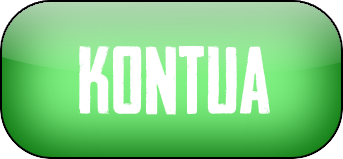
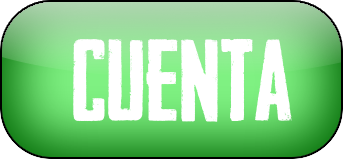
Pasahitzak enkriptatuak, jokoa internazionalizatuta

Changed region(s): [[0.2041, 0.2264, 0.8746, 0.7799]]

diff --git a/core/src/com/endlessrunner/Pantallas/menus/AjustesScreen.java b/core/src/com/endlessrunner/Pantallas/menus/AjustesScreen.java
@@ -36,6 +36,8 @@ public class AjustesScreen extends BaseScreen {
     private ImageButton per1,per2;
     private ImageButton atras;
 
+    private Boolean aventurero;
+
     public AjustesScreen(final EndlessRunner jokoa) {
         super(jokoa);
 
@@ -47,7 +49,6 @@ public class AjustesScreen extends BaseScreen {
         CargarPersonajes();
 
         String rutaAtras,rutaIdiomaEuskera=".png",rutaIdiomaGaztelera=".png",rutaIdiomaIngelesa=".png";
-
 
         if(Ajustes.Idioma.equals("EUS")){
             rutaIdiomaEuskera="_aukeratuta.png";
@@ -79,40 +80,45 @@ public class AjustesScreen extends BaseScreen {
 
 
         if(Ajustes.Personaje.equals("aventurero")){
-            per1= new ImageButton(new TextureRegionDrawable(new TextureRegion(new Texture(Gdx.files.internal("input/personajes/personaje1_aukeratuta.png")))));
-            per2= new ImageButton(new TextureRegionDrawable(new TextureRegion(new Texture(Gdx.files.internal("input/personajes/personaje2.png")))));
+            aventurero = true;
+            per1= new ImageButton(new TextureRegionDrawable(new TextureRegion(new Texture(Gdx.files.internal("input/" + Ajustes.Ruta + "/abenturazale_aukeratuta.png")))));
+            per2= new ImageButton(new TextureRegionDrawable(new TextureRegion(new Texture(Gdx.files.internal("input/" + Ajustes.Ruta + "/ninja.png")))));
         }else{
-            per1= new ImageButton(new TextureRegionDrawable(new TextureRegion(new Texture(Gdx.files.internal("input/personajes/personaje1.png")))));
-            per2= new ImageButton(new TextureRegionDrawable(new TextureRegion(new Texture(Gdx.files.internal("input/personajes/personaje2_aukeratuta.png")))));
+            aventurero = false;
+            per1= new ImageButton(new TextureRegionDrawable(new TextureRegion(new Texture(Gdx.files.internal("input/" + Ajustes.Ruta + "/abenturazale.png")))));
+            per2= new ImageButton(new TextureRegionDrawable(new TextureRegion(new Texture(Gdx.files.internal("input/" + Ajustes.Ruta + "/ninja_aukeratuta.png")))));
         }
 
         per1.addCaptureListener(new ChangeListener() {
             @Override
             public void changed(ChangeEvent event, Actor actor) {
+                aventurero = true;
                 Ajustes.Personaje="aventurero";IndiceTextura=0;
-                per1.getStyle().imageUp=new TextureRegionDrawable(new TextureRegion(new Texture(Gdx.files.internal("input/personajes/personaje1_aukeratuta.png"))));
-                per2.getStyle().imageUp=new TextureRegionDrawable(new TextureRegion(new Texture(Gdx.files.internal("input/personajes/personaje2.png"))));
+                per1.getStyle().imageUp=new TextureRegionDrawable(new TextureRegion(new Texture(Gdx.files.internal("input/" + Ajustes.Ruta + "/abenturazale_aukeratuta.png"))));
+                per2.getStyle().imageUp=new TextureRegionDrawable(new TextureRegion(new Texture(Gdx.files.internal("input/" + Ajustes.Ruta + "/ninja.png"))));
             }
         });
 
         per2.addCaptureListener(new ChangeListener() {
             @Override
             public void changed(ChangeEvent event, Actor actor) {
+                aventurero = false;
                 Ajustes.Personaje="ninja";IndiceTextura=0;
-                per1.getStyle().imageUp=new TextureRegionDrawable(new TextureRegion(new Texture(Gdx.files.internal("input/personajes/personaje1.png"))));
-                per2.getStyle().imageUp=new TextureRegionDrawable(new TextureRegion(new Texture(Gdx.files.internal("input/personajes/personaje2_aukeratuta.png"))));
+                per1.getStyle().imageUp=new TextureRegionDrawable(new TextureRegion(new Texture(Gdx.files.internal("input/" + Ajustes.Ruta + "/abenturazale.png"))));
+                per2.getStyle().imageUp=new TextureRegionDrawable(new TextureRegion(new Texture(Gdx.files.internal("input/" + Ajustes.Ruta + "/ninja_aukeratuta.png"))));
             }
         });
-
 
         idiomaEuskera.addCaptureListener(new ChangeListener() {
             @Override
             public void changed(ChangeEvent event, Actor actor) {
                 Ajustes.Idioma="EUS";
+                Ajustes.Ruta="euskera";
                 idiomaEuskera.getStyle().imageUp=new TextureRegionDrawable(new TextureRegion(new Texture(Gdx.files.internal("input/idiomas/eus_aukeratuta.png"))));
                 idiomaGaztelera.getStyle().imageUp=new TextureRegionDrawable(new TextureRegion(new Texture(Gdx.files.internal("input/idiomas/es.png"))));
                 idiomaIngles.getStyle().imageUp=new TextureRegionDrawable(new TextureRegion(new Texture(Gdx.files.internal("input/idiomas/en.png"))));
                 atras.getStyle().imageUp=new TextureRegionDrawable(new TextureRegion(new Texture(Gdx.files.internal("input/euskera/atzera.png"))));
+                updateProtag();
 
             }
         });
@@ -121,11 +127,12 @@ public class AjustesScreen extends BaseScreen {
             @Override
             public void changed(ChangeEvent event, Actor actor) {
                 Ajustes.Idioma="ES";
+                Ajustes.Ruta="gaztelera";
                 idiomaEuskera.getStyle().imageUp=new TextureRegionDrawable(new TextureRegion(new Texture(Gdx.files.internal("input/idiomas/eus.png"))));
                 idiomaGaztelera.getStyle().imageUp=new TextureRegionDrawable(new TextureRegion(new Texture(Gdx.files.internal("input/idiomas/es_aukeratuta.png"))));
                 idiomaIngles.getStyle().imageUp=new TextureRegionDrawable(new TextureRegion(new Texture(Gdx.files.internal("input/idiomas/en.png"))));
                 atras.getStyle().imageUp=new TextureRegionDrawable(new TextureRegion(new Texture(Gdx.files.internal("input/gaztelera/atzera.png"))));
-
+                updateProtag();
             }
         });
 
@@ -133,10 +140,12 @@ public class AjustesScreen extends BaseScreen {
             @Override
             public void changed(ChangeEvent event, Actor actor) {
                 Ajustes.Idioma="EN";
+                Ajustes.Ruta="ingelesa";
                 idiomaEuskera.getStyle().imageUp=new TextureRegionDrawable(new TextureRegion(new Texture(Gdx.files.internal("input/idiomas/eus.png"))));
                 idiomaGaztelera.getStyle().imageUp=new TextureRegionDrawable(new TextureRegion(new Texture(Gdx.files.internal("input/idiomas/es.png"))));
                 idiomaIngles.getStyle().imageUp=new TextureRegionDrawable(new TextureRegion(new Texture(Gdx.files.internal("input/idiomas/en_aukeratuta.png"))));
                 atras.getStyle().imageUp=new TextureRegionDrawable(new TextureRegion(new Texture(Gdx.files.internal("input/ingelesa/atzera.png"))));
+                updateProtag();
             }
         });
 
@@ -221,6 +230,16 @@ public class AjustesScreen extends BaseScreen {
 
     }
 
+    private void updateProtag(){
+        if (aventurero) {
+            per1.getStyle().imageUp = new TextureRegionDrawable(new TextureRegion(new Texture(Gdx.files.internal("input/" + Ajustes.Ruta + "/abenturazale_aukeratuta.png"))));
+            per2.getStyle().imageUp = new TextureRegionDrawable(new TextureRegion(new Texture(Gdx.files.internal("input/" + Ajustes.Ruta + "/ninja.png"))));
+        }else{
+            per1.getStyle().imageUp=new TextureRegionDrawable(new TextureRegion(new Texture(Gdx.files.internal("input/" + Ajustes.Ruta + "/abenturazale.png"))));
+            per2.getStyle().imageUp=new TextureRegionDrawable(new TextureRegion(new Texture(Gdx.files.internal("input/" + Ajustes.Ruta + "/ninja_aukeratuta.png"))));
+        }
+    }
+
     @Override
     public void show() {
         Gdx.input.setInputProcessor(stage);
@@ -258,9 +277,9 @@ public class AjustesScreen extends BaseScreen {
 
         if(Ajustes.Personaje.equals("aventurero")){
             jokoa.batch.draw(per1TextureMov[IndiceTextura],100, 80, 80 , 80 );
-            jokoa.batch.draw(per2Texture,270, 80, 80 , 80 );
+            jokoa.batch.draw(per2Texture,290, 80, 52 , 98 );
         }else{
-            jokoa.batch.draw(per1Texture,100, 80, 80 , 80 );
+            jokoa.batch.draw(per1Texture,100, 80, 64 , 98 );
             jokoa.batch.draw(per2TextureMov[IndiceTextura],270, 80, 80 , 80 );
         }
 

diff --git a/core/src/com/endlessrunner/Pantallas/menus/CreditosScreen.java b/core/src/com/endlessrunner/Pantallas/menus/CreditosScreen.java
@@ -11,6 +11,7 @@ import com.badlogic.gdx.scenes.scene2d.utils.ChangeListener;
 import com.badlogic.gdx.utils.viewport.FitViewport;
 import com.endlessrunner.EndlessRunner;
 import com.endlessrunner.Pantallas.partida_basica.BaseScreen;
+import com.endlessrunner.ayuda.Ajustes;
 
 /**
  * Created by Jongui on 27/03/2018.
@@ -33,14 +34,31 @@ public class CreditosScreen extends BaseScreen{
 
         skin = new Skin(Gdx.files.internal("skin/uiskin.json"));
 
-        back = new TextButton("Atzera", skin);
+        if (Ajustes.Idioma.equals("ES")) {
+            back = new TextButton("Atras", skin);
+            credits = new Label("EndlessRunner\n" +
+                    "Alumnos de la asignatura Softwarea Garatzeko Tresna Aurreratuak (SGTA) 2018:\n" +
+                    "Jon Guillo, Aritz Olea y Ander Lopez.\n\n" +
 
-        credits = new Label("EndlessRunner\n" +
-                "Softwarea Garatzeko Tresna Aurreratuak (SGTA) 2018 irakasgaiko ikasleak:\n" +
-                "Jon Guillo, Aritz Olea eta Ander Lopez.\n\n" +
+                    "Musica: \"Hot Pursuit\" (incompetech.com)\n" +
+                    "Sonidos: freesound.org", skin);
+        }else if (Ajustes.Idioma.equals("EN")) {
+            back = new TextButton("Back", skin);
+            credits = new Label("EndlessRunner\n" +
+                    "Students from subject Softwarea Garatzeko Tresna Aurreratuak (SGTA) 2018:\n" +
+                    "Jon Guillo, Aritz Olea and Ander Lopez.\n\n" +
 
-                "Musika: \"Hot Pursuit\" (incompetech.com)\n" +
-                "Soinuak: freesound.org", skin);
+                    "Music: \"Hot Pursuit\" (incompetech.com)\n" +
+                    "Sounds: freesound.org", skin);
+        }else {
+            back = new TextButton("Atzera", skin);
+            credits = new Label("EndlessRunner\n" +
+                    "Softwarea Garatzeko Tresna Aurreratuak (SGTA) 2018 irakasgaiko ikasleak:\n" +
+                    "Jon Guillo, Aritz Olea eta Ander Lopez.\n\n" +
+
+                    "Musika: \"Hot Pursuit\" (incompetech.com)\n" +
+                    "Soinuak: freesound.org", skin);
+        }
 
         back.addCaptureListener(new ChangeListener() {
             @Override
@@ -60,6 +78,31 @@ public class CreditosScreen extends BaseScreen{
     @Override
     public void show() {
         Gdx.input.setInputProcessor(stage);
+        if (Ajustes.Idioma.equals("ES")) {
+            back.setText("Atras");
+            credits.setText("EndlessRunner\n" +
+                    "Alumnos de la asignatura Softwarea Garatzeko Tresna Aurreratuak (SGTA) 2018:\n" +
+                    "Jon Guillo, Aritz Olea y Ander Lopez.\n\n" +
+
+                    "Musica: \"Hot Pursuit\" (incompetech.com)\n" +
+                    "Sonidos: freesound.org");
+        }else if (Ajustes.Idioma.equals("EN")) {
+            back.setText("Back");
+            credits.setText("EndlessRunner\n" +
+                    "Students from subject Softwarea Garatzeko Tresna Aurreratuak (SGTA) 2018:\n" +
+                    "Jon Guillo, Aritz Olea and Ander Lopez.\n\n" +
+
+                    "Music: \"Hot Pursuit\" (incompetech.com)\n" +
+                    "Sounds: freesound.org");
+        }else{
+            back.setText("Atzera");
+            credits.setText("EndlessRunner\n" +
+                    "Softwarea Garatzeko Tresna Aurreratuak (SGTA) 2018 irakasgaiko ikasleak:\n" +
+                    "Jon Guillo, Aritz Olea eta Ander Lopez.\n\n" +
+
+                    "Musika: \"Hot Pursuit\" (incompetech.com)\n" +
+                    "Soinuak: freesound.org");
+        }
     }
 
     @Override

diff --git a/core/src/com/endlessrunner/Pantallas/menus/UserScreen.java b/core/src/com/endlessrunner/Pantallas/menus/UserScreen.java
@@ -99,14 +99,14 @@ public class UserScreen extends com.endlessrunner.Pantallas.partida_basica.BaseS
         if(Ajustes.Idioma.equals("EUS")){
             user =new Label("Erabiltzailea: \n     "+DatosUsuarioXML.user, new Label.LabelStyle(fuente, Color.valueOf("333030")) );
             topScore =new Label("Puntuazio altuena: "+DatosUsuarioXML.topScore, new Label.LabelStyle(fuente, Color.BLACK) );
-            avgScore =new Label("Puntuen batazbestekoa: "+DatosUsuarioXML.avgScore, new Label.LabelStyle(fuente, Color.DARK_GRAY) );
+            avgScore =new Label("Puntuen media: "+DatosUsuarioXML.avgScore, new Label.LabelStyle(fuente, Color.DARK_GRAY) );
             games =new Label("Jokatutako partidak: "+DatosUsuarioXML.playedGames, new Label.LabelStyle(fuente, Color.BLACK) );
             jumps =new Label("Jauzi kopurua: "+DatosUsuarioXML.totallJumps, new Label.LabelStyle(fuente, Color.DARK_GRAY) );
             mashrooms =new Label("Perretxiko kopurua: "+DatosUsuarioXML.totalMashrooms, new Label.LabelStyle(fuente, Color.BLACK) );
             glues =new Label("Kola kopurua: "+DatosUsuarioXML.totalGlues, new Label.LabelStyle(fuente, Color.DARK_GRAY) );
-            falls =new Label("Erorketagatik heriotza: "+DatosUsuarioXML.fallDeaths, new Label.LabelStyle(fuente, Color.BLACK) );
-            collision =new Label("Talkagatik heriotza: "+DatosUsuarioXML.collisionDeaths, new Label.LabelStyle(fuente, Color.DARK_GRAY) );
-            cameraout =new Label("Kameragatik heriotza: "+DatosUsuarioXML.collisionDeaths, new Label.LabelStyle(fuente, Color.BLACK) );
+            falls =new Label("Erorketa heriotzak: "+DatosUsuarioXML.fallDeaths, new Label.LabelStyle(fuente, Color.BLACK) );
+            collision =new Label("Talka heriotzak: "+DatosUsuarioXML.collisionDeaths, new Label.LabelStyle(fuente, Color.DARK_GRAY) );
+            cameraout =new Label("Kamera heriotzak: "+DatosUsuarioXML.collisionDeaths, new Label.LabelStyle(fuente, Color.BLACK) );
 
         }else if(Ajustes.Idioma.equals("ES")){
             user =new Label("Usuario: \n     "+DatosUsuarioXML.user, new Label.LabelStyle(fuente, Color.valueOf("333030")) );
@@ -115,7 +115,7 @@ public class UserScreen extends com.endlessrunner.Pantallas.partida_basica.BaseS
             games =new Label("Partidas jugadas: "+DatosUsuarioXML.playedGames, new Label.LabelStyle(fuente, Color.BLACK) );
             jumps =new Label("Total de saltos: "+DatosUsuarioXML.totallJumps, new Label.LabelStyle(fuente, Color.DARK_GRAY) );
             mashrooms =new Label("Total de setas: "+DatosUsuarioXML.totalMashrooms, new Label.LabelStyle(fuente, Color.BLACK) );
-            glues =new Label("Totalde colas: "+DatosUsuarioXML.totalGlues, new Label.LabelStyle(fuente, Color.DARK_GRAY) );
+            glues =new Label("Total de colas: "+DatosUsuarioXML.totalGlues, new Label.LabelStyle(fuente, Color.DARK_GRAY) );
             falls =new Label("Muertes por caida: "+DatosUsuarioXML.fallDeaths, new Label.LabelStyle(fuente, Color.BLACK) );
             collision =new Label("Muertes por colision: "+DatosUsuarioXML.collisionDeaths, new Label.LabelStyle(fuente, Color.DARK_GRAY) );
             cameraout =new Label("Muertes por camara: "+DatosUsuarioXML.collisionDeaths, new Label.LabelStyle(fuente, Color.BLACK) );

diff --git a/core/src/com/endlessrunner/Pantallas/menus/MenuScreen.java b/core/src/com/endlessrunner/Pantallas/menus/MenuScreen.java
@@ -135,10 +135,21 @@ public class MenuScreen extends com.endlessrunner.Pantallas.partida_basica.BaseS
     public void show() {
         Gdx.input.setInputProcessor(stage);
         if(!DatosUsuarioXML.user.equals("Anonimo")){
-            welcomeLbl.setText("Ongi etorri, " + DatosUsuarioXML.user + "!");
+            if (Ajustes.Idioma.equals("ES")) {
+                welcomeLbl.setText("Bienvenido, " + DatosUsuarioXML.user + "!");
+            }else if (Ajustes.Idioma.equals("EN")) {
+                welcomeLbl.setText("Welcome, " + DatosUsuarioXML.user + "!");
+            }else{
+                welcomeLbl.setText("Ongi etorri, " + DatosUsuarioXML.user + "!");
+            }
         }else{
             welcomeLbl.setText("");
         }
+        jokatuBotoia.getStyle().imageUp=new TextureRegionDrawable(new TextureRegion(new Texture(Gdx.files.internal("input/"+ Ajustes.Ruta+"/jokatu.png"))));
+        puntuazioaBotoia.getStyle().imageUp=new TextureRegionDrawable(new TextureRegion(new Texture(Gdx.files.internal("input/"+ Ajustes.Ruta+"/puntuazioak.png"))));
+        kontuaBotoia.getStyle().imageUp=new TextureRegionDrawable(new TextureRegion(new Texture(Gdx.files.internal("input/"+ Ajustes.Ruta+"/kontua.png"))));
+        aukeraBotoia.getStyle().imageUp=new TextureRegionDrawable(new TextureRegion(new Texture(Gdx.files.internal("input/"+ Ajustes.Ruta+"/aukerak.png"))));
+        kredituakBotoia.getStyle().imageUp=new TextureRegionDrawable(new TextureRegion(new Texture(Gdx.files.internal("input/"+ Ajustes.Ruta+"/kredituak.png"))));
     }
 
     @Override
